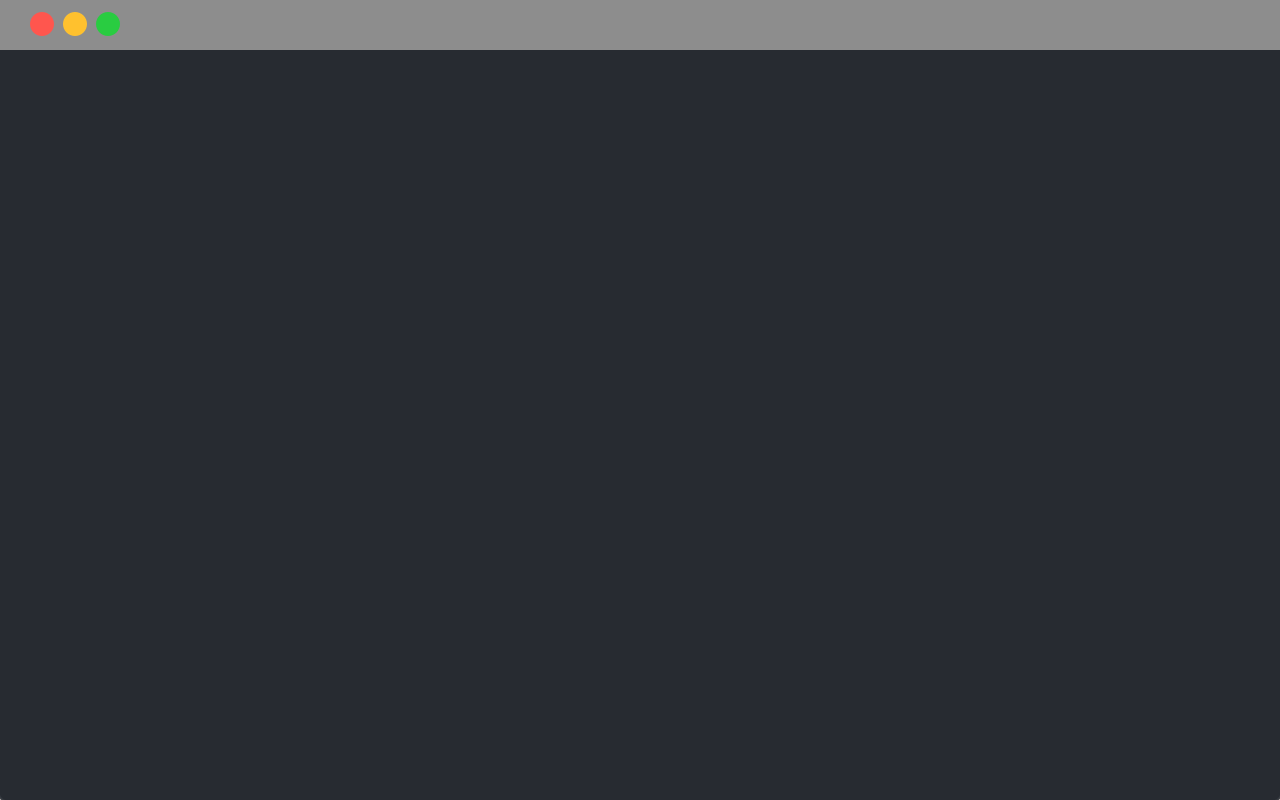
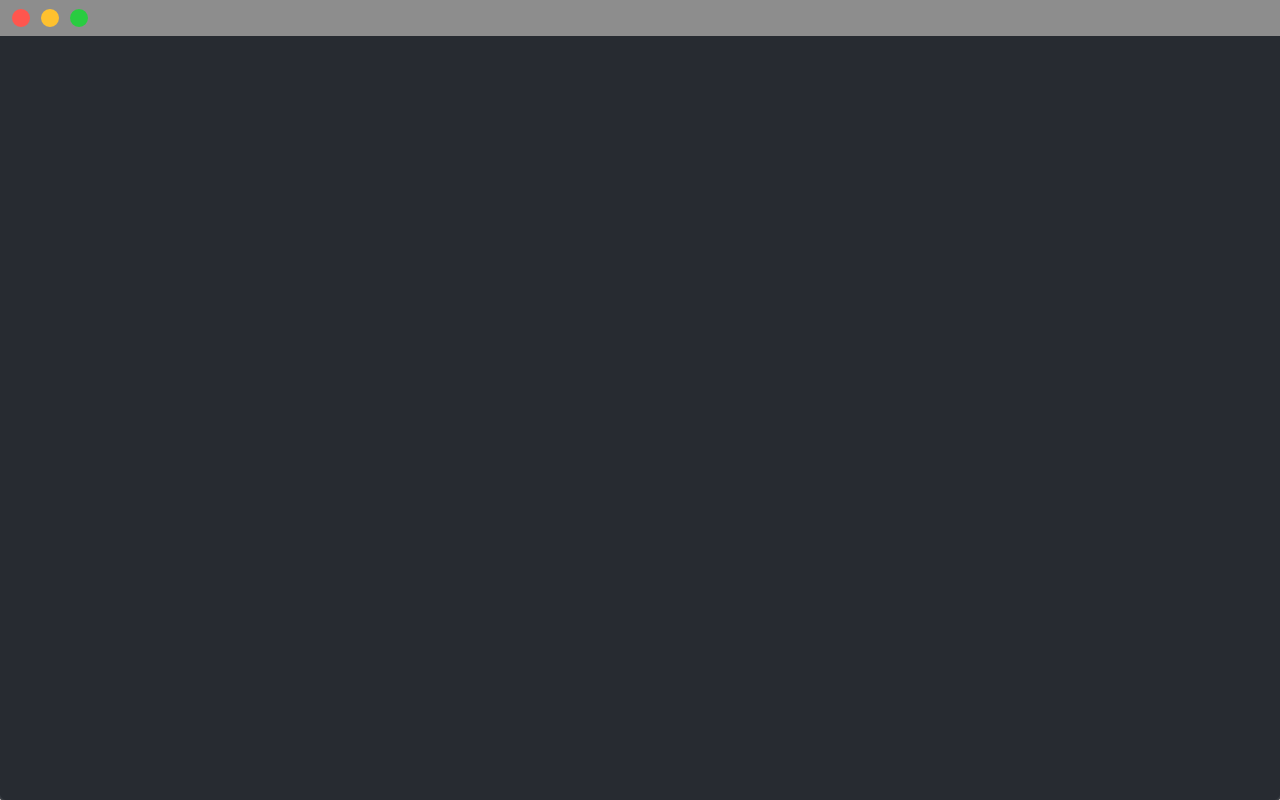
Thinner topbar and pancake colors

Changed region(s): [[0.0, 0.0, 1.0, 0.0625]]

diff --git a/index.html b/index.html
@@ -49,7 +49,7 @@
 		a.dir {
 			display: block;
 			text-decoration: none;
-			color: rgb(0%, 100%, 0%);
+			color: #36D7B7;
 		}
 		
 		a.dir:hover {
@@ -63,7 +63,7 @@
 		a.file {
 			display: block;
 			text-decoration: none;
-			color: rgb(80%, 0%, 20%);
+			color: #F62459;
 		}
 		
 		a.file:hover {
@@ -78,8 +78,12 @@
 		}
 
 		#cat {
-			color: aqua;
+			color: #FFB61E;
 		}
+
+        .user, .machine{
+            color: #89C4F4;
+        }
 		
 		@keyframes blink {
 			0% {
@@ -122,7 +126,7 @@
   –––––––––––––––––––––––––––––––––––––––––––––––––– -->
 	<script src="typed.js"></script>
 	<script type="text/javascript">
-		var ps1 = 'you@pablopunk.com$ ';
+		var ps1 = '<span class="user">you</span><span class="machine">@pablopunk.com$</span> ';
 		var cmd = '^1300ls -a1';
 		var links = '^2000<a class="dir" href="http://pablopunk.com" title="here">./</a>\
 			<a class="dir" href="https://github.com/pablopunk/pablopunk.com" title="up">../</a>\
@@ -133,11 +137,11 @@
 			<a class="dir" href="https://youtube.com/pablopunk" title="youtube">My videos/</a>\
 			<a class="file" href="./copyright.txt" title="copyright">copyright.txt</a>\
 			<a class="file" href="./help.txt" title="help">help.txt</a>'
-		var ps2 = '^3500you@pablopunk.com$ ';
+		var ps2 = '^3500'+ps1;
 		var cmd2 = '^4800cat help.txt';
 		var cat = '^5600\
 					Click on a folder or file to open it';
-		var ps3 = '^6000you@pablopunk.com$ ';
+		var ps3 = '^6000'+ps1;
 
 		$(document).ready(function() {
 			// prompt
